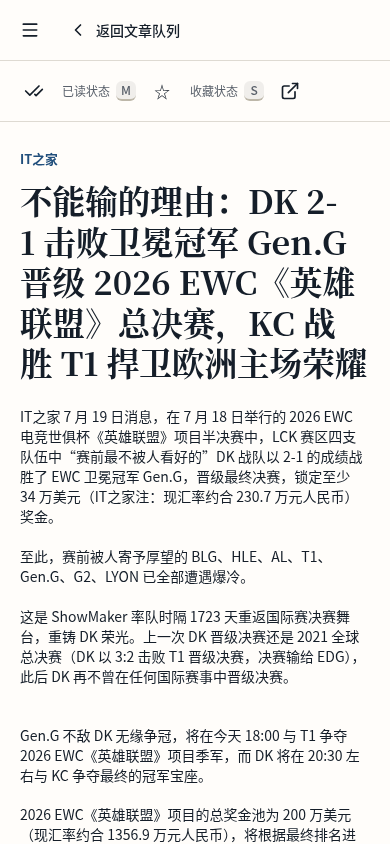
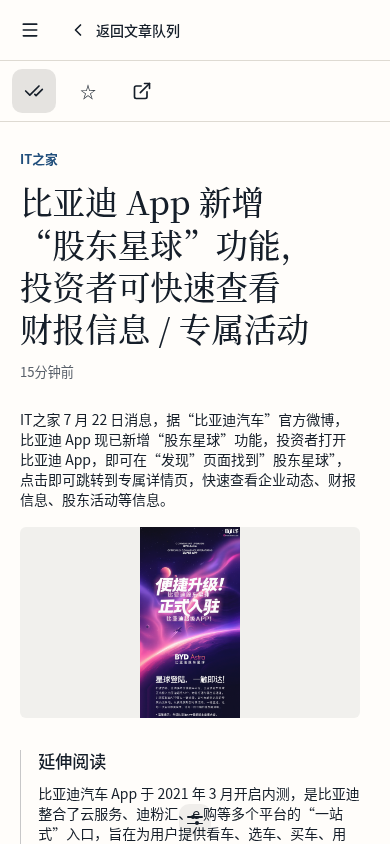
release: v0.3.9

diff --git a/web/src/features/reader/reader.css b/web/src/features/reader/reader.css
@@ -180,6 +180,33 @@
   gap: 6px;
 }
 
+.reader-queue-heading {
+  display: grid;
+  min-inline-size: 0;
+  max-inline-size: min(220px, 32vw);
+  gap: 1px;
+  text-align: center;
+}
+
+.reader-queue-heading strong,
+.reader-queue-heading span {
+  overflow: hidden;
+  text-overflow: ellipsis;
+  white-space: nowrap;
+}
+
+.reader-queue-heading strong {
+  font-size: 0.9rem;
+  line-height: 1.2;
+}
+
+.reader-queue-heading span {
+  color: var(--color-text-secondary);
+  font-size: 0.7rem;
+  font-weight: 500;
+  line-height: 1.2;
+}
+
 .reader-reading-controls {
   display: inline-flex;
   align-items: center;
@@ -391,6 +418,17 @@ html[data-raindrop-reading-color="gray"] .reader-article-plane {
   overflow: hidden;
   border-block-end: 1px solid var(--color-border);
   background: var(--color-background-muted);
+  opacity: 1;
+  transform: translateY(0);
+  transition: opacity var(--duration-normal) var(--ease-out),
+    transform var(--duration-normal) var(--ease-out);
+}
+
+@starting-style {
+  .reader-ai-sidecar {
+    opacity: 0;
+    transform: translateY(-6px);
+  }
 }
 
 .reader-ai-sidecar-header {
@@ -560,18 +598,28 @@ html[data-raindrop-reading-color="gray"] .reader-article-plane {
   box-shadow:
     0 1px 2px color-mix(in oklch, black 14%, transparent),
     0 6px 18px color-mix(in oklch, black 18%, transparent);
-  transform: translate(-50%, 6px);
+  opacity: 1;
+  transform: translate(-50%, 6px) scale(1);
+  visibility: visible;
+  transition: opacity var(--duration-fast) var(--ease-out),
+    transform var(--duration-fast) var(--ease-out), visibility 0s linear 0s;
 }
 
 .reader-selection-action[data-hidden="true"] {
   visibility: hidden;
   opacity: 0;
   pointer-events: none;
+  transform: translate(-50%, 10px) scale(0.96);
+  transition: opacity var(--duration-micro) var(--ease-out),
+    transform var(--duration-micro) var(--ease-out),
+    visibility 0s linear var(--duration-micro);
 }
 
 .reader-selection-action[data-popover-open="true"] {
+  visibility: hidden;
   opacity: 0;
   pointer-events: none;
+  transform: translate(-50%, 8px) scale(0.98);
 }
 
 .reader-selection-action-glyph {
@@ -664,7 +712,15 @@ html[data-raindrop-reading-color="gray"] .reader-article-plane {
   .reader-selection-action {
     min-inline-size: 44px;
     min-block-size: 44px;
-    transform: translate(-50%, 8px);
+    transform: translate(-50%, 8px) scale(1);
+  }
+
+  .reader-selection-action[data-hidden="true"] {
+    transform: translate(-50%, 12px) scale(1);
+  }
+
+  .reader-selection-action[data-popover-open="true"] {
+    transform: translate(-50%, 10px) scale(1);
   }
 }
 
@@ -695,7 +751,7 @@ html[data-raindrop-reading-color="gray"] .reader-article-plane {
 }
 
 .reader-translation-title {
-  margin-block: -18px 28px;
+  margin-block: 0 12px;
   font-size: clamp(1.18em, 1.5vw, 1.42em);
   font-weight: 650;
 }
@@ -869,7 +925,7 @@ html[data-raindrop-reading-color="gray"] .reader-article-plane {
 }
 
 .reader-article h1 {
-  margin: 0 0 22px;
+  margin: 0 0 12px;
   color: var(--reader-article-foreground);
   font-family: var(--reader-article-font);
   font-size: clamp(1.85em, calc(1.75em + 0.5vw), 2.35em);
@@ -891,6 +947,22 @@ html[data-raindrop-reading-color="gray"] .reader-article-plane {
   font-weight: 400;
   line-height: 1.68;
   text-wrap: pretty;
+}
+
+.reader-article-meta {
+  display: flex;
+  align-items: center;
+  flex-wrap: wrap;
+  gap: 6px;
+  margin-block: 0 28px;
+  color: var(--reader-article-muted);
+  font-family: var(--font-family-body);
+  font-size: 0.82em;
+  line-height: 1.45;
+}
+
+.reader-article-meta time {
+  font-variant-numeric: tabular-nums;
 }
 
 html[lang^="zh"] .reader-article h1 {
@@ -1299,6 +1371,17 @@ html[lang^="zh"] .ai-artifact-view {
   text-align: start;
   cursor: pointer;
   transition: transform 140ms cubic-bezier(0.23, 1, 0.32, 1);
+}
+
+.reader-panel-transition {
+  opacity: 1;
+  transition: opacity var(--duration-fast) var(--ease-out);
+}
+
+@starting-style {
+  .reader-panel-transition {
+    opacity: 0;
+  }
 }
 
 .reader-settings-nav-item[aria-current="page"] {
@@ -1864,8 +1947,8 @@ html[data-raindrop-density="spacious"] {
     );
   }
 
-  .reader-entry-item:hover {
-    background: color-mix(in oklch, var(--color-accent-muted) 54%, transparent);
+  .reader-entry-item:not([aria-selected="true"]):hover {
+    background: color-mix(in oklch, var(--color-text-primary) 5%, transparent);
   }
 
   .reader-reading-dock:hover .reader-reading-float,
@@ -2090,6 +2173,23 @@ html[data-raindrop-density="spacious"] {
   .reader-settings-nav-item {
     transform: none !important;
     transition-property: background-color !important;
+  }
+
+  .reader-ai-sidecar,
+  .reader-panel-transition {
+    transform: none !important;
+    transition-duration: 160ms !important;
+    transition-property: opacity !important;
+  }
+
+  .reader-selection-action {
+    transition-duration: 160ms !important;
+    transition-property: opacity !important;
+  }
+
+  .reader-selection-action[data-hidden="true"],
+  .reader-selection-action[data-popover-open="true"] {
+    transform: translate(-50%, 6px) scale(1) !important;
   }
 
   .reader-article-body[data-translation-mode="HOVER"]

diff --git a/web/src/features/reader/ReaderQueueActions.test.tsx b/web/src/features/reader/ReaderQueueActions.test.tsx
@@ -19,6 +19,17 @@ it("bounds and normalizes publisher summaries for queue rows", () => {
 })
 
 describe("Reader queue actions", () => {
+  it("keeps the active source and visible entry count in the queue heading", () => {
+    activateLocale("en")
+    const state = feedState({
+      queueBySourceKey: { "feed:feed-rust": ["first", "second"] },
+    })
+    renderQueue(state, { sourceLabel: "Planet Rust" })
+
+    expect(screen.getByText("Planet Rust")).toBeVisible()
+    expect(screen.getByText("2 in view")).toBeVisible()
+  })
+
   it("shows Feed search only for Feed sources and submits or clears it", async () => {
     activateLocale("en")
     const user = userEvent.setup()
@@ -144,6 +155,7 @@ function queue(state: ReaderState, overrides: Partial<QueueProps> = {}) {
     <Providers>
       <EntryQueue
         state={state}
+        sourceLabel="Unread"
         showMenu={false}
         isCompact={false}
         onOpenSources={vi.fn()}

diff --git a/web/src/features/reader/components/ArticleReader.tsx b/web/src/features/reader/components/ArticleReader.tsx
@@ -20,6 +20,7 @@ import type {
   UserPreferencesReadingFontFamily,
 } from "../../preferences/api/preferences.generated"
 import { ArticleToolbar, ReadingFloatingToolbar } from "./ReaderToolbar"
+import { RelativeEntryTime } from "./RelativeEntryTime"
 
 interface ArticleReaderProps {
   state: ReaderState
@@ -216,6 +217,15 @@ export function ArticleReader(props: ArticleReaderProps) {
               {translationController.result.title}
             </div>
           ) : null}
+        </div>
+        <div className="reader-article-meta">
+          {detail.author ? <span>{detail.author}</span> : null}
+          {detail.author ? <span aria-hidden="true">·</span> : null}
+          <RelativeEntryTime
+            timestampUs={detail.publishedAtUs ?? detail.sortAtUs}
+            locale={i18n.locale}
+            justNowLabel={i18n._("reader.justNow")}
+          />
         </div>
         <ArticleSelectionPopover
           controller={translationController}

diff --git a/web/src/features/reader/components/QueueToolbar.tsx b/web/src/features/reader/components/QueueToolbar.tsx
@@ -8,6 +8,8 @@ import { useLingui } from "@lingui/react"
 export type MarkReadAvailability = "hidden" | "disabled" | "enabled"
 
 interface QueueToolbarProps {
+  sourceLabel: string
+  entryCount: number
   showMenu: boolean
   isCompact: boolean
   markReadAvailability: MarkReadAvailability
@@ -51,7 +53,12 @@ export function QueueToolbar(props: QueueToolbarProps) {
           variant="ghost"
         />
       ) : undefined}
-      centerContent={<strong>{i18n._("reader.queue")}</strong>}
+      centerContent={(
+        <div className="reader-queue-heading">
+          <strong title={props.sourceLabel}>{props.sourceLabel}</strong>
+          <span>{i18n._("reader.queueVisibleCount", { count: props.entryCount })}</span>
+        </div>
+      )}
       endContent={
         <>
           <MoreMenu

diff --git a/web/src/features/reader/layout/ReaderShell.tsx b/web/src/features/reader/layout/ReaderShell.tsx
@@ -87,6 +87,10 @@ export function ReaderShell(props: ReaderShellProps) {
   const aiConfig = props.aiSettingsController?.configEnvelope?.config
   const summaryEnabled = Boolean(aiConfig?.isEnabled && aiConfig.summary.enabled)
   const translationConfig = props.translationController?.config ?? null
+  const sourceLabel = selectedSourceLabel(
+    props.controller.state,
+    (id) => i18n._(id),
+  )
   useReaderHotkeys({
     queueEntryIds,
     cursorEntryId: props.cursorEntryId,
@@ -159,6 +163,7 @@ export function ReaderShell(props: ReaderShellProps) {
   const queuePane = (
     <EntryQueue
       state={props.controller.state}
+      sourceLabel={sourceLabel}
       showMenu={props.viewportMode !== "wide"}
       isCompact={props.viewportMode === "compact"}
       onOpenSources={() => setIsNavOpen(true)}
@@ -385,7 +390,7 @@ export function ReaderShell(props: ReaderShellProps) {
       />
       <MarkReadDialog
         isOpen={isMarkReadOpen}
-        sourceLabel={selectedSourceLabel(props.controller.state, (id) => i18n._(id))}
+        sourceLabel={sourceLabel}
         isLoading={props.controller.isMarkingRead}
         onOpenChange={setIsMarkReadOpen}
         onConfirm={props.controller.markCurrentSourceRead}

diff --git a/web/src/features/preferences/components/PreferencesDialog.tsx b/web/src/features/preferences/components/PreferencesDialog.tsx
@@ -153,7 +153,10 @@ export function PreferencesDialog(props: PreferencesDialogProps) {
                   />
                 ) : null}
               </nav>
-              <div className="reader-preferences-panel">
+              <div
+                key={activeTab}
+                className="reader-preferences-panel reader-panel-transition"
+              >
                 {activeTab !== "plugins" ? (
                   <div className="reader-settings-panel-intro">
                     <div className="reader-settings-title">

diff --git a/web/src/features/reader/ReaderArticleWorkspace.test.tsx b/web/src/features/reader/ReaderArticleWorkspace.test.tsx
@@ -28,6 +28,11 @@ describe("Reader article workspace", () => {
     )
 
     expect(screen.getByRole("heading", { name: "Reading without trackers" })).toBeVisible()
+    expect(screen.getByText("Mara Voss")).toBeVisible()
+    expect(document.querySelector(".reader-article-meta time")).toHaveAttribute(
+      "datetime",
+      "2023-11-14T22:13:20.000Z",
+    )
     expect(screen.getByText("Safe original article.")) .toBeVisible()
     const image = document.querySelector<HTMLImageElement>(".reader-article img")!
     const frame = document.querySelector<HTMLElement>(".reader-article-image-frame")!

diff --git a/web/src/features/reader/components/SubscriptionManagementDialog.tsx b/web/src/features/reader/components/SubscriptionManagementDialog.tsx
@@ -112,7 +112,10 @@ export function SubscriptionManagementDialog(
                 <Tab value="opml" label="OPML" />
               </TabList>
             </div>
-            <div className="reader-management-panel">
+            <div
+              key={activeTab}
+              className="reader-management-panel reader-panel-transition"
+            >
               {activeTab === "subscriptions" ? (
                 <SubscriptionPanel
                   {...props}

diff --git a/web/src/features/reader/components/EntryQueue.tsx b/web/src/features/reader/components/EntryQueue.tsx
@@ -16,6 +16,7 @@ import { RelativeEntryTime } from "./RelativeEntryTime"
 
 interface EntryQueueProps {
   state: ReaderState
+  sourceLabel: string
   showMenu: boolean
   isCompact: boolean
   onOpenSources: () => void
@@ -39,6 +40,7 @@ interface EntryQueueProps {
 
 export function EntryQueue({
   state,
+  sourceLabel,
   showMenu,
   isCompact,
   onOpenSources,
@@ -90,6 +92,8 @@ export function EntryQueue({
   return (
     <div ref={rootRef} className="reader-queue" aria-busy={state.paneStatus.queue === "loading"}>
       <QueueToolbar
+        sourceLabel={sourceLabel}
+        entryCount={queue.length}
         showMenu={showMenu}
         isCompact={isCompact}
         markReadAvailability={markReadAvailability}

diff --git a/web/e2e/admin-only-setup.spec.ts b/web/e2e/admin-only-setup.spec.ts
@@ -35,6 +35,6 @@ test("managed empty database exposes only first-administrator setup", async ({ p
   const bootstrap = await page.request.get(`${server.baseURL}/api/v1/bootstrap`)
   await expect(bootstrap.json()).resolves.toEqual({
     status: "READY",
-    version: "0.3.8",
+    version: "0.3.9",
   })
 })

diff --git a/web/src/shared/i18n/i18n.ts b/web/src/shared/i18n/i18n.ts
@@ -440,6 +440,7 @@ const catalogs: Record<AppLocale, Messages> = {
     "reader.searchSourcesPlaceholder": "搜索订阅或分类",
     "reader.sources.actions": "来源操作",
     "reader.queue": "文章队列",
+    "reader.queueVisibleCount": ["当前 ", ["count"], " 篇"],
     "reader.queue.actions": "队列操作",
     "reader.queueShortcuts": "队列快捷键",
     "reader.openEntryShortcut": "打开",
@@ -1025,6 +1026,7 @@ const catalogs: Record<AppLocale, Messages> = {
     "reader.searchSourcesPlaceholder": "Search subscriptions or categories",
     "reader.sources.actions": "Source actions",
     "reader.queue": "Entry queue",
+    "reader.queueVisibleCount": [["count"], " in view"],
     "reader.queue.actions": "Queue actions",
     "reader.queueShortcuts": "Queue shortcuts",
     "reader.openEntryShortcut": "Open",

diff --git a/web/src/shared/theme/raindrop.css b/web/src/shared/theme/raindrop.css
@@ -20,7 +20,9 @@
     --color-border-emphasized: light-dark(oklch(0.78 0.02 85), oklch(0.44 0.012 70));
     --radius-control: 10px;
     --radius-container: 14px;
+    --duration-micro: 120ms;
     --duration-fast: 140ms;
+    --duration-normal: 180ms;
     --duration-medium: 240ms;
     --ease-out: cubic-bezier(0.23, 1, 0.32, 1);
     --ease-standard: cubic-bezier(0.32, 0.72, 0, 1);